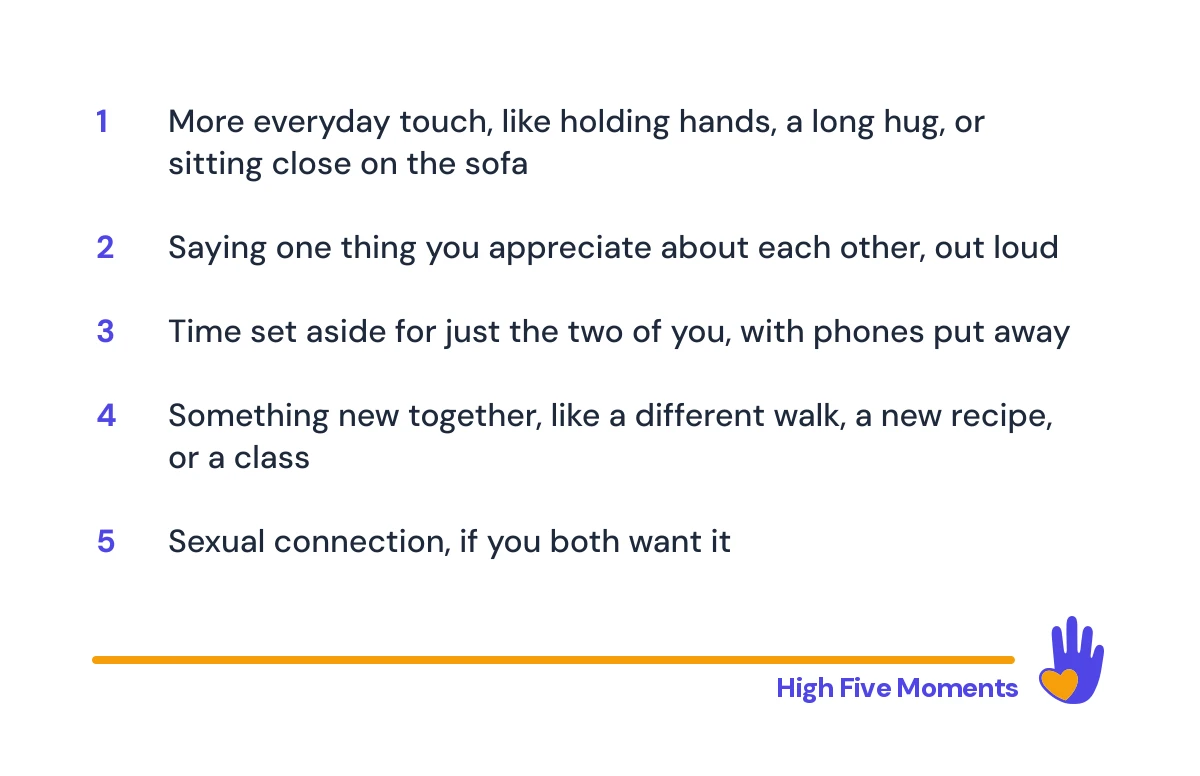
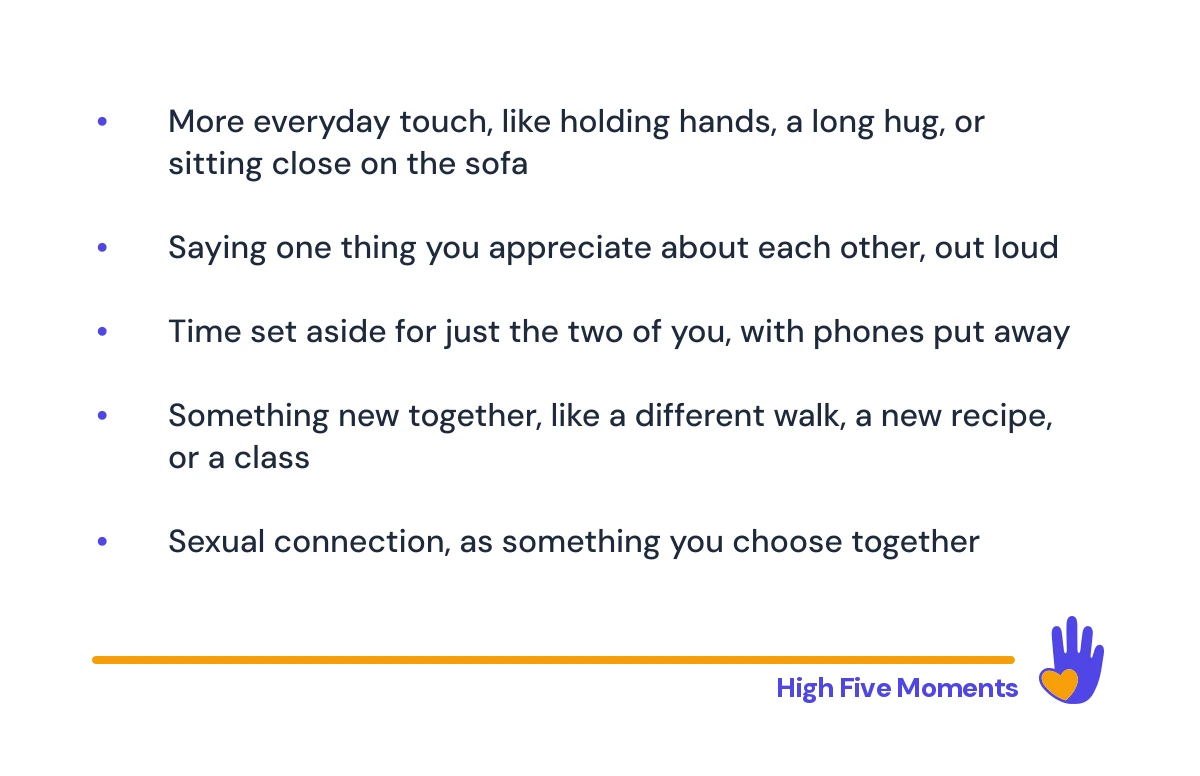
Use bullets for intimacy options and matching list card

diff --git a/src/components/article-body.tsx b/src/components/article-body.tsx
@@ -117,6 +117,11 @@ const components: Components = {
 
 const questionListComponents: Components = {
   ...components,
+  ul: ({ children }) => (
+    <ul className="mt-6 list-disc space-y-2 pl-6 marker:font-semibold marker:text-[var(--indigo)]">
+      {children}
+    </ul>
+  ),
   ol: ({ children }) => (
     <ol className="mt-6 list-decimal space-y-2 pl-6 marker:font-semibold marker:text-[var(--indigo)]">
       {children}

diff --git a/docs/articles.md b/docs/articles.md
@@ -42,7 +42,7 @@ hero:
 
 The markdown body starts at the first H2. The layout renders the H1, so the file has no `#` heading. The layout renders a join section under the article. A closing sentence in the body may point at that section. It says the reader can join the waitlist below, and it does not link to `/`.
 
-`payoffList: true` styles the article's one ordered list. A simple list of short items is the usual case. When the page explains each item, a headed list is an option: the card image comes first, then each item is a heading with its paragraph indented under it, so the questions are not printed twice. The questions stay real text.
+`payoffList: true` styles the article's list, whether numbered or bulleted. A simple list of short items is the usual case. When the page explains each item, a headed list is an option: the card image comes first, then each item is a heading with its paragraph indented under it, so the questions are not printed twice. The questions stay real text.
 
 ```md
 ![Alt text.](/blog/<slug>/check-in-questions.webp)
@@ -58,7 +58,7 @@ Draw the image with:
 node scripts/render-question-card.mjs content/articles/<slug>.md
 ```
 
-The script reads the item headings, or the item text when there is no heading. It draws a simple on-brand SVG and writes `public/blog/<slug>/check-in-questions.webp`. The card has no border. The page draws that in CSS, on this image only. A gold line sits in the footer, inside the margins, runs above the wordmark, and stops short of the hand. The hand sits on the right. The words High Five Moments sit just to its left, under the line, in DM Sans ExtraBold and indigo. The approved example sits with that article’s hero: `public/blog/relationship-check-in/check-in-questions.webp`. The markdown image uses that file and an alt. An image model does not draw this card.
+The script reads the first numbered or bulleted list, using the item headings or the item text when there is no heading. The card uses the same marker style as the source list. It draws a simple on-brand SVG and writes `public/blog/<slug>/check-in-questions.webp`. The card has no border. The page draws that in CSS, on this image only. A gold line sits in the footer, inside the margins, runs above the wordmark, and stops short of the hand. The hand sits on the right. The words High Five Moments sit just to its left, under the line, in DM Sans ExtraBold and indigo. The approved example sits with that article’s hero: `public/blog/relationship-check-in/check-in-questions.webp`. The markdown image uses that file and an alt. An image model does not draw this card.
 
 A build fails when a published article is missing its hero, the hero is the wrong size, a body image has no alt text, or a body image sits outside `public/blog/<slug>/`.
 

diff --git a/content/articles/how-to-bring-back-intimacy-in-a-relationship.md b/content/articles/how-to-bring-back-intimacy-in-a-relationship.md
@@ -3,7 +3,7 @@ title: How to bring back intimacy in a relationship
 description: "How to bring back intimacy in a relationship: talk about the closeness each of you misses, then pick one next step you both feel comfortable with."
 heading: How to bring back intimacy in a relationship by talking about what you each miss
 publishedAt: 2026-10-29
-updatedAt: 2026-10-29
+updatedAt: 2026-10-31
 published: true
 payoffList: true
 hero:
@@ -54,11 +54,11 @@ When it's your partner's turn, they may miss something different, or they may sa
 
 Start with something small enough that you could both say yes to it this week. Here are a few kinds of steps to choose from:
 
-1. More everyday touch, like holding hands, a long hug, or sitting close on the sofa
-2. Saying one thing you appreciate about each other, out loud
-3. Time set aside for just the two of you, with phones put away
-4. Something new together, like a different walk, a new recipe, or a class
-5. Sexual connection, as something you choose together
+- More everyday touch, like holding hands, a long hug, or sitting close on the sofa
+- Saying one thing you appreciate about each other, out loud
+- Time set aside for just the two of you, with phones put away
+- Something new together, like a different walk, a new recipe, or a class
+- Sexual connection, as something you choose together
 
 A small step is easy to agree to, and easy to change if it doesn't feel right. Trying to regain intimacy in a relationship all at once can turn it into a test you're both worried about failing.
 
